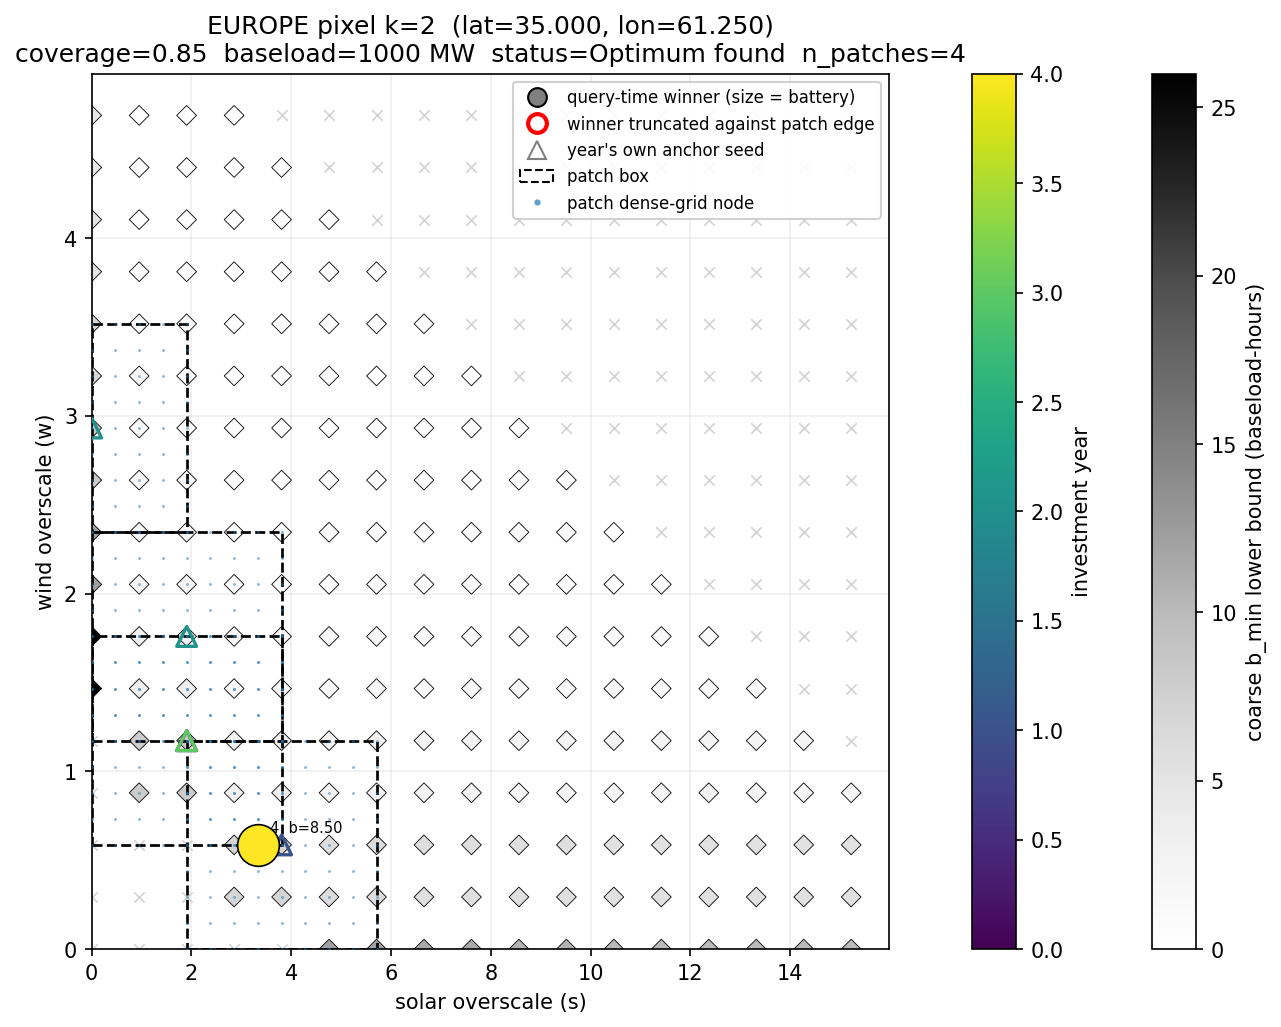
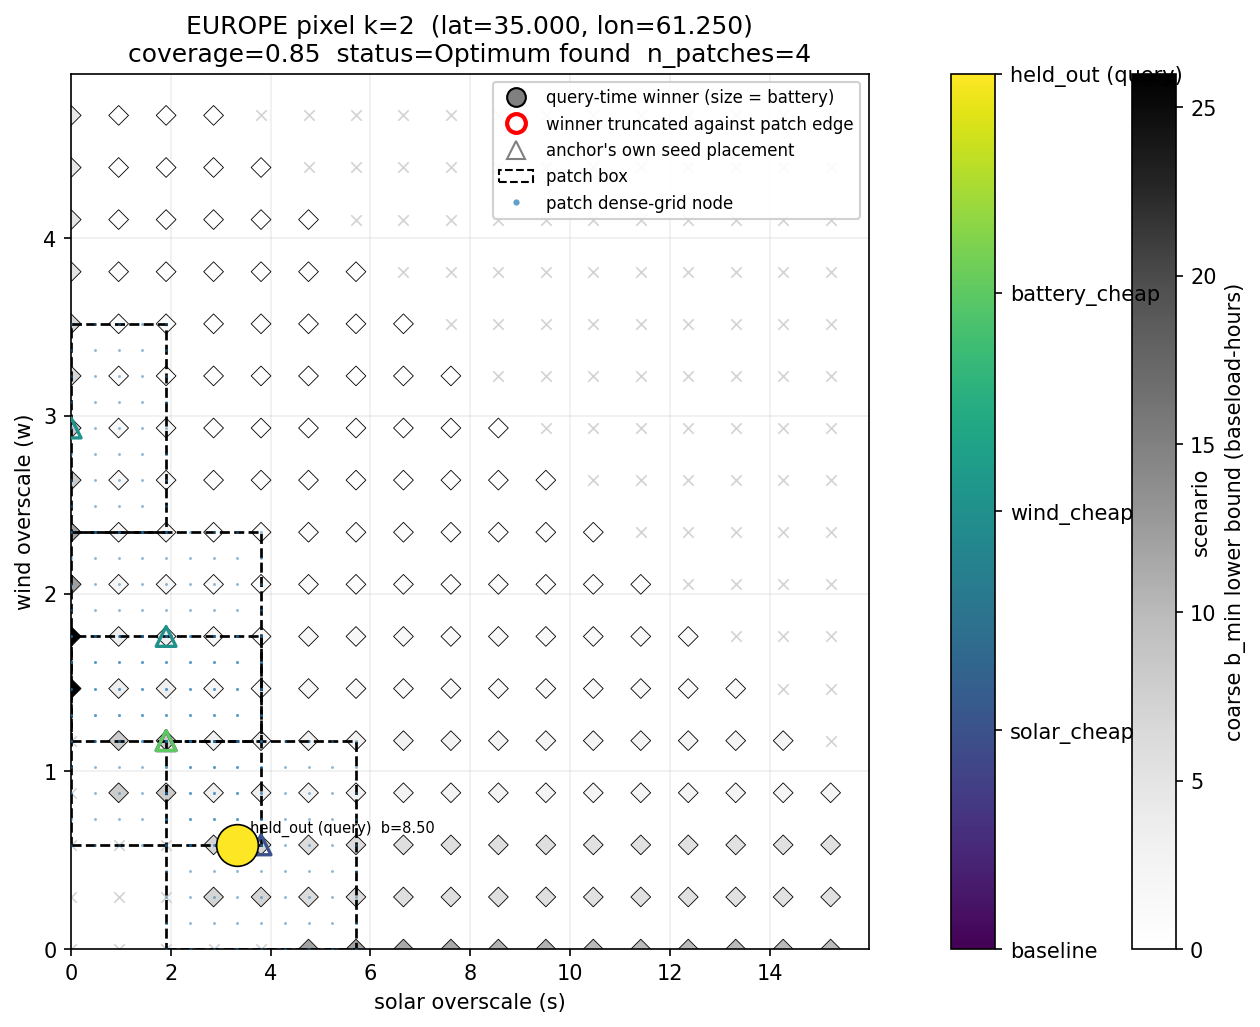
Fix misleading labels in patch-shrink visualization plots
Two problems in the plots committed just before this:

plot_search_grid's "year" axis was repurposed for scenario slots
(build anchors + held-out query) but still showed raw 0-4 indices
under an "investment year" colorbar -- looked like real years. Added
optional colorbar_label/tick_labels/anchor_legend_label params to
plot_search_grid (default behaviour unchanged, so the real CLI's actual
year-based usage in main() is unaffected) and used them to show the
real anchor names instead.

The title also showed "baseload=1000 MW", copied from main()'s pattern
where lcoe_coefficients() really does take a baseload_demand. This
script's make_coeffs() never applies one (implicit baseload=1, per
bisection.py's "demand normalised to 1" convention), and LCOE/argmin
are exactly baseload-invariant regardless (every CostCoefficients entry
scales linearly with it and cancels in the ratio) -- so the number was
disconnected from anything actually computed. baseload is now optional
on plot_search_grid and omitted from the title when None.

diff --git a/scripts/boa_search_grid_plot.py b/scripts/boa_search_grid_plot.py
@@ -95,12 +95,23 @@ def plot_search_grid(
     lat: float,
     lon: float,
     coverage: float,
-    baseload: float,
+    baseload: float | None,
     years: list[int],
     winners: dict[int, Optimum | None],
     anchors: dict[int, list[tuple[float, float]]],
     output_path: Path | None = None,
+    colorbar_label: str = "investment year",
+    tick_labels: dict[int, str] | None = None,
+    anchor_legend_label: str = "year's own anchor seed",
 ) -> None:
+    """
+    `colorbar_label`/`tick_labels` let a caller repurpose the `years` axis for a discrete
+    set of labelled scenarios instead of real investment years -- e.g. one slot per
+    build-time anchor plus a held-out query -- without changing the default behaviour real
+    CLI usage (`main`, real years) relies on. `tick_labels` maps a `years` entry to its
+    display name; annotation text and the colorbar ticks use it when given, otherwise the
+    raw year number is shown as before.
+    """
     fig, ax = plt.subplots(figsize=(9, 7))
 
     s_c = frontier.s_coarse.astype(np.float64)
@@ -196,8 +207,9 @@ def plot_search_grid(
         edge = "red" if opt.argmin_truncated else "black"
         lw = 2.2 if opt.argmin_truncated else 0.8
         ax.scatter(opt.solar, opt.wind, s=size, color=cmap(norm(y)), edgecolors=edge, linewidths=lw, zorder=7)
+        label = tick_labels[y] if tick_labels else str(y)
         ax.annotate(
-            f"{y}  b={opt.battery:.2f}",
+            f"{label}  b={opt.battery:.2f}",
             (opt.solar, opt.wind),
             textcoords="offset points",
             xytext=(6, 6),
@@ -206,7 +218,11 @@ def plot_search_grid(
 
     sm = plt.cm.ScalarMappable(cmap=cmap, norm=norm)
     sm.set_array([])
-    fig.colorbar(sm, ax=ax, label="investment year", pad=0.08)
+    cbar = fig.colorbar(sm, ax=ax, label=colorbar_label, pad=0.08)
+    if tick_labels:
+        ticks = sorted(tick_labels)
+        cbar.set_ticks(ticks)
+        cbar.set_ticklabels([tick_labels[t] for t in ticks])
 
     legend_elems = [
         Line2D(
@@ -238,7 +254,7 @@ def plot_search_grid(
             markerfacecolor="none",
             markeredgecolor="grey",
             markersize=9,
-            label="year's own anchor seed",
+            label=anchor_legend_label,
         ),
         Rectangle((0, 0), 1, 1, fill=False, edgecolor="black", linestyle="--", label="patch box"),
         Line2D(
@@ -260,9 +276,16 @@ def plot_search_grid(
     ax.set_xlabel("solar overscale (s)")
     ax.set_ylabel("wind overscale (w)")
     status = STATUS_CODES.get(int(frontier.status), "unknown")
+    # LCOE and the argmin design are exactly baseload-invariant (every CostCoefficients
+    # entry scales linearly with it and it cancels in the LCOE ratio -- see
+    # cost_calculations.lcoe_coefficients), so it is display-only even when given: it says
+    # what physical scale the caller's coeffs were built at, nothing the search itself used.
+    # `None` (e.g. coeffs built baseload=1-normalised, with no real MW figure behind them)
+    # omits it rather than showing a number that would imply otherwise.
+    baseload_part = f"  baseload={baseload:g} MW" if baseload is not None else ""
     ax.set_title(
         f"{region} pixel k={k}  (lat={lat:.3f}, lon={lon:.3f})\n"
-        f"coverage={coverage:g}  baseload={baseload:g} MW  status={status}  n_patches={frontier.n_patches}"
+        f"coverage={coverage:g}{baseload_part}  status={status}  n_patches={frontier.n_patches}"
     )
     ax.grid(True, alpha=0.2)
     plt.tight_layout()

diff --git a/scripts/patch_shrink_visualize.py b/scripts/patch_shrink_visualize.py
@@ -158,9 +158,10 @@ def main() -> int:
                 f"box_widenings={frontier.box_widenings}"
             )
 
-            # Repurpose plot_search_grid's "year" axis: one slot per build anchor showing
-            # where THAT anchor alone would have seeded (triangles), plus one "query" slot
-            # showing the held-out-coefficient winner (the actual query-time answer).
+            # Repurpose plot_search_grid's "year" axis for scenarios instead of real years:
+            # one slot per build anchor showing where THAT anchor alone would have seeded
+            # (triangles), plus one "query" slot showing the held-out-coefficient winner
+            # (the actual query-time answer). tick_labels below gives each slot its real name.
             winners: dict[int, Optimum | None] = {}
             anchors: dict[int, list[tuple[float, float]]] = {}
             for i, name in enumerate(BUILD_ANCHOR_NAMES):
@@ -170,6 +171,9 @@ def main() -> int:
             winners[query_slot] = argmin_lcoe(frontier, query_coeffs) if frontier.n_patches > 0 else None
             anchors[query_slot] = []
 
+            tick_labels = {i: name for i, name in enumerate(BUILD_ANCHOR_NAMES)}
+            tick_labels[query_slot] = f"{QUERY_ANCHOR_NAME} (query)"
+
             out_path = OUT_DIR / f"{label}_{config_name}.png"
             plot_search_grid(
                 frontier,
@@ -178,11 +182,17 @@ def main() -> int:
                 lat,
                 lon,
                 COVERAGE,
-                baseload=1000.0,
+                baseload=None,  # make_coeffs never applies a baseload multiplier (implicit
+                # baseload=1, matching bisection.py's "demand normalised to 1" convention);
+                # LCOE/argmin are exactly baseload-invariant regardless, so there is no real
+                # MW figure behind these coefficients to show.
                 years=list(range(query_slot + 1)),
                 winners=winners,
                 anchors=anchors,
                 output_path=out_path,
+                colorbar_label="scenario",
+                tick_labels=tick_labels,
+                anchor_legend_label="anchor's own seed placement",
             )
             print(f"    wrote {out_path}")
 
